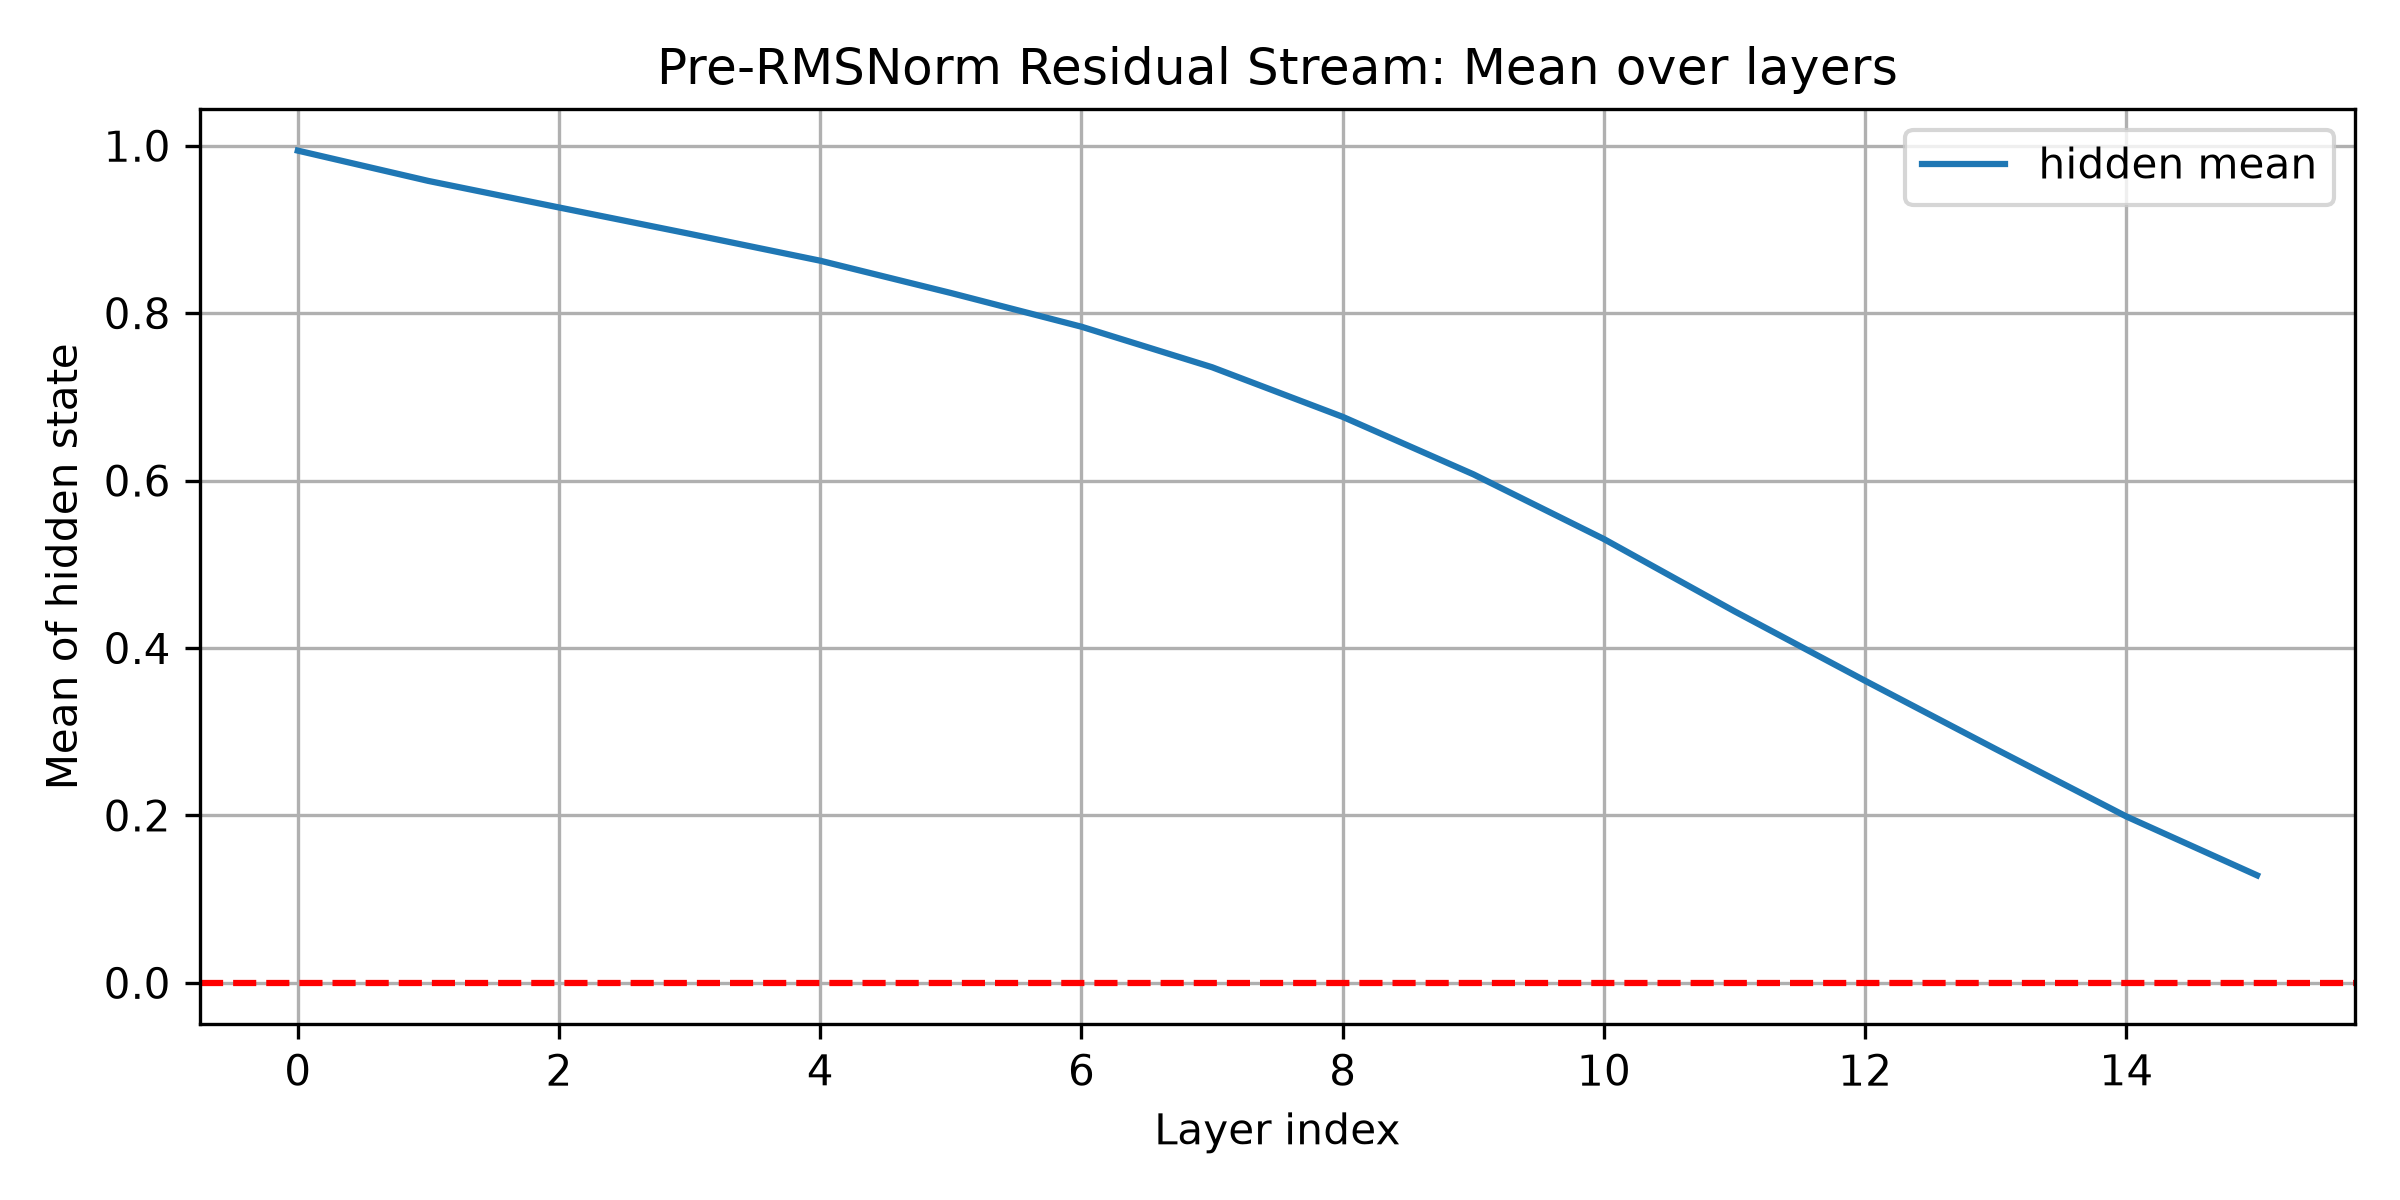
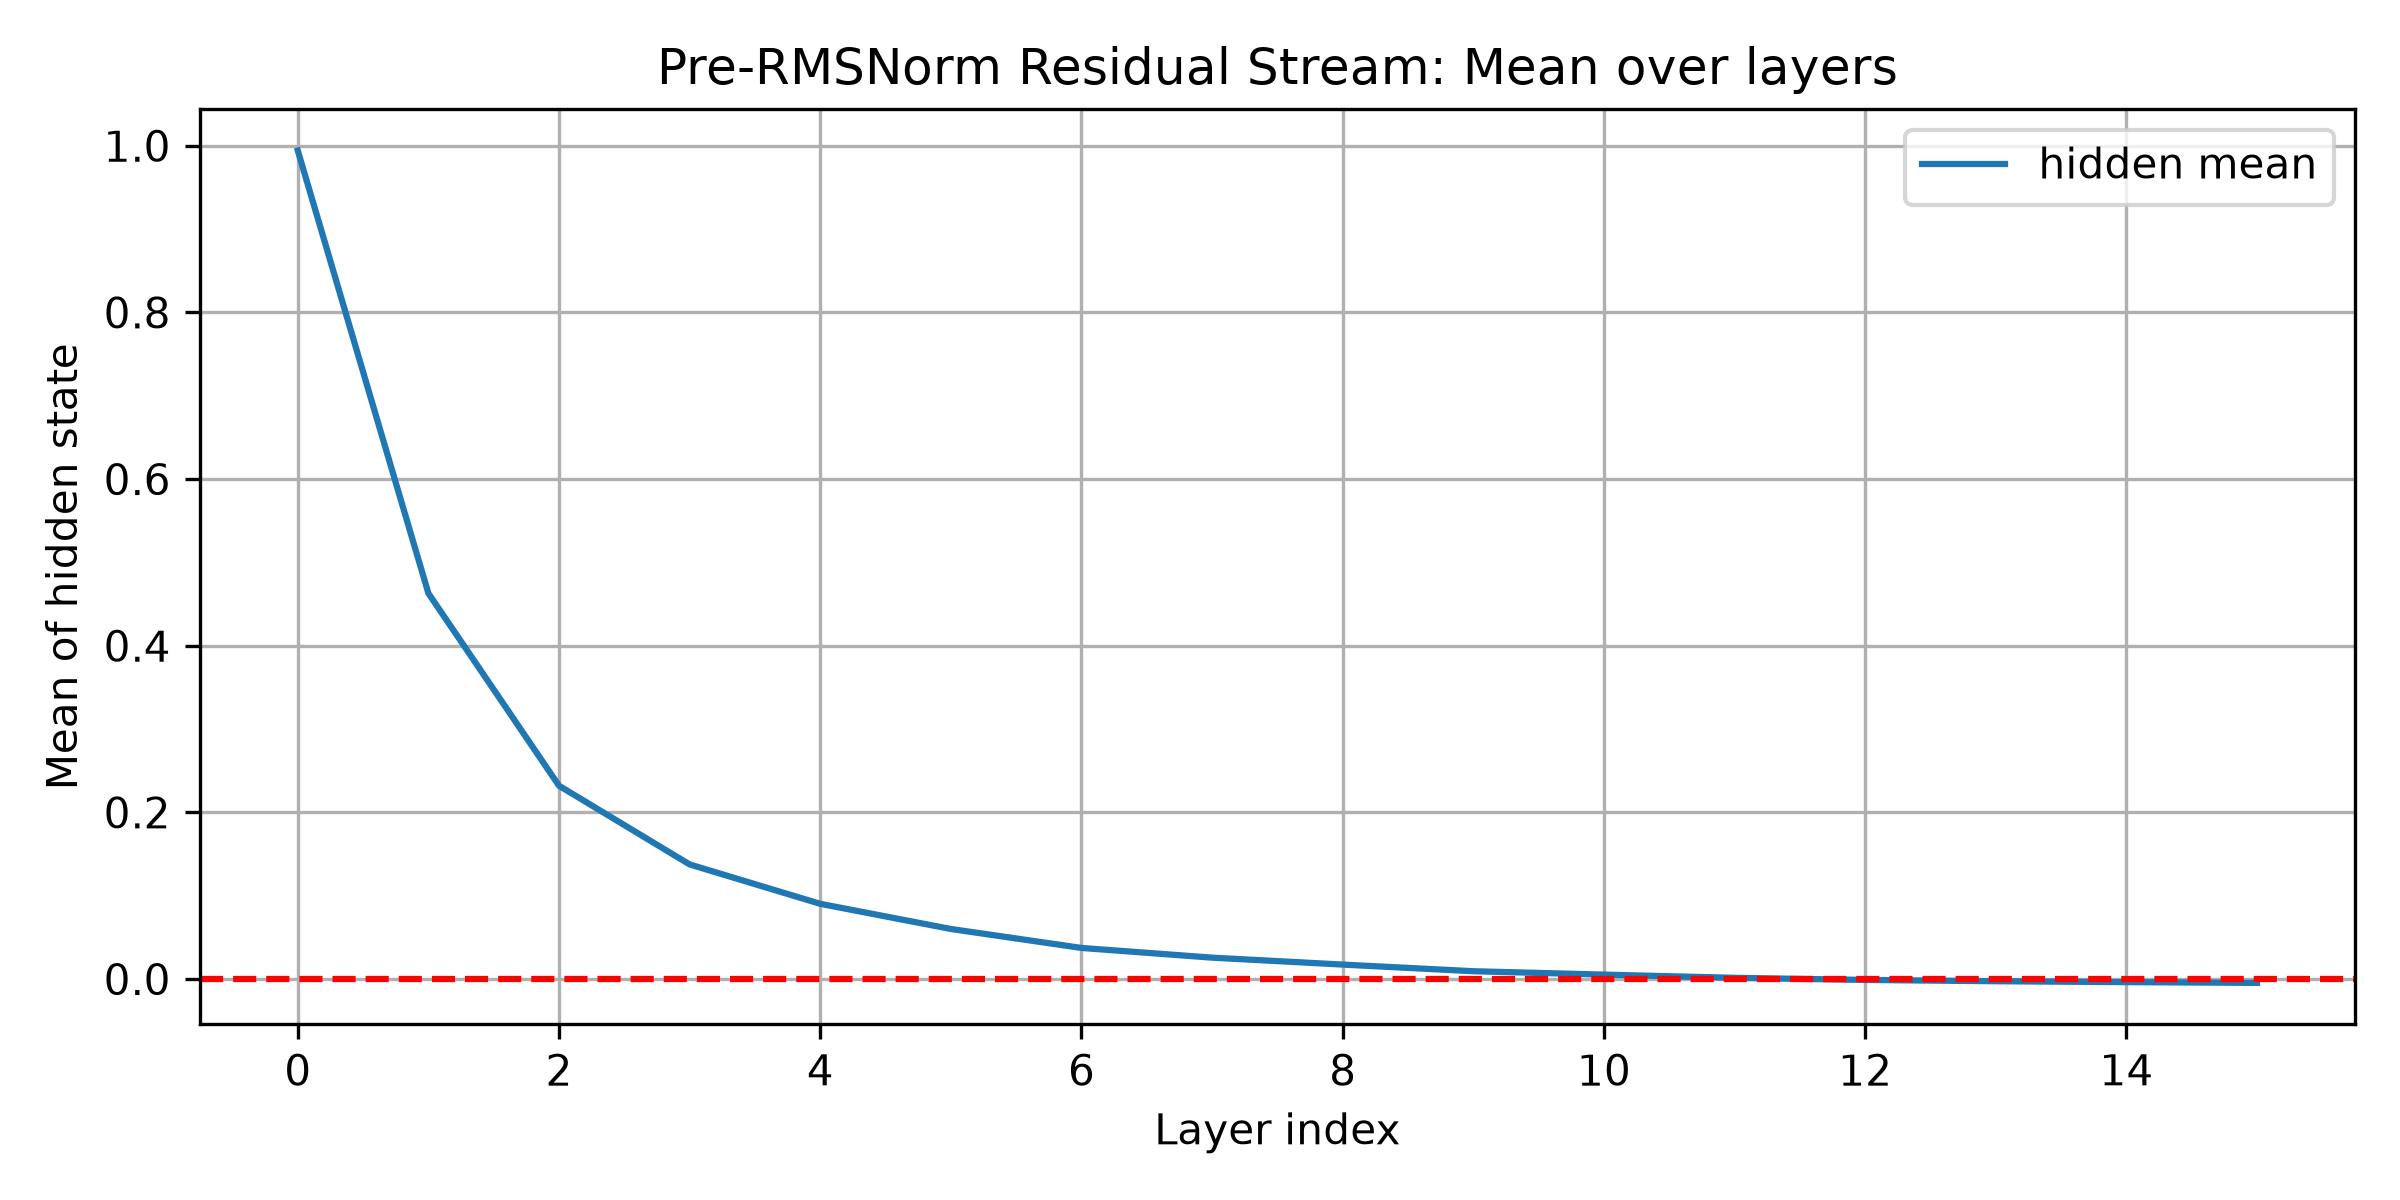
更新rms

diff --git a/04-rms-norm/rmsnorm.py b/04-rms-norm/rmsnorm.py
@@ -37,7 +37,8 @@ class SimpleSublayer(nn.Module):
         super().__init__()
         self.w1 = nn.Linear(dim, 4 * dim, bias=False)
         self.w2 = nn.Linear(4 * dim, dim, bias=False)
-        self.act = nn.GELU()
+        # self.act = nn.GELU()
+        self.act = nn.SiLU()
         # 标准零均值初始化
         nn.init.normal_(self.w1.weight, std=0.02)
         nn.init.normal_(self.w2.weight, std=0.02)
@@ -49,7 +50,7 @@ class PreNormBlock(nn.Module):
     # x_{l+1} = x_{l} + Sublayer(Norm(x_{l}))
     def __init__(self, dim):
         super().__init__()
-        self.norm = LayerNorm(dim)
+        self.norm = RMSNorm(dim)
         self.sub = SimpleSublayer(dim)
 
     def forward(self, x):
